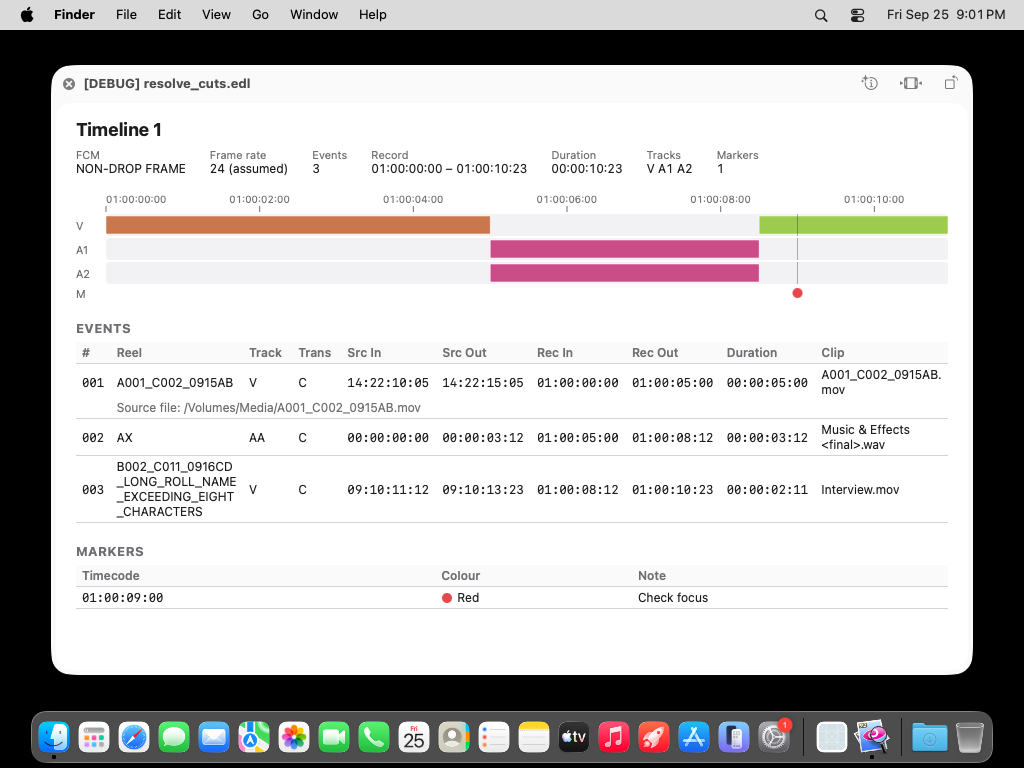
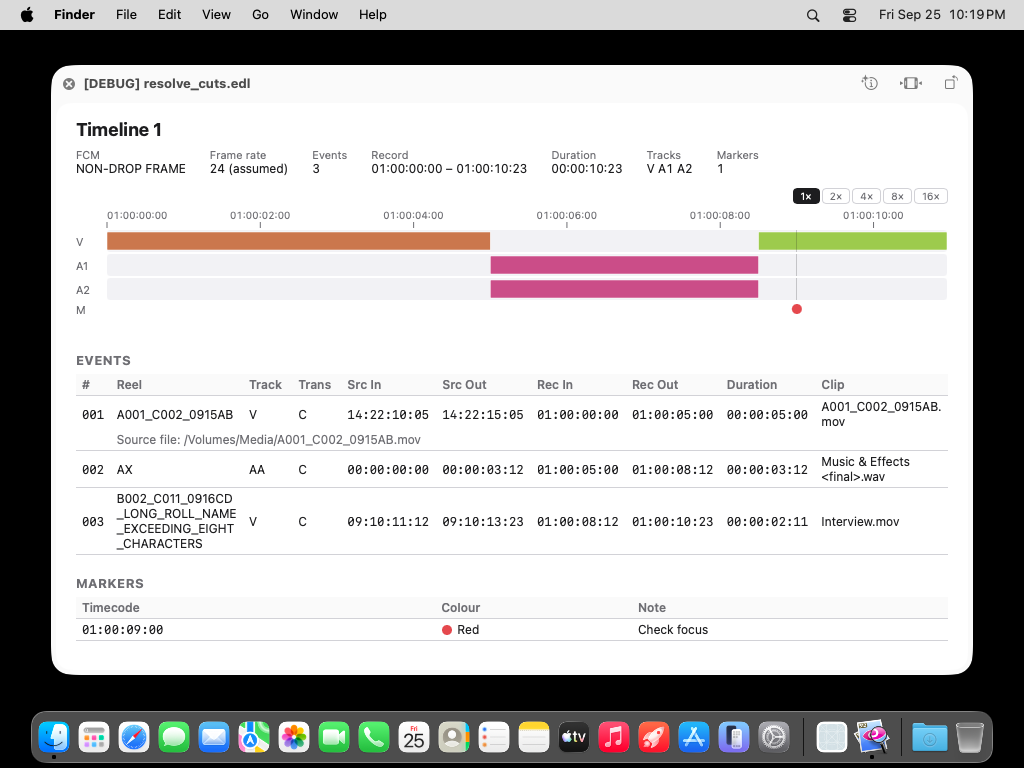
Zoomable, scrollable timeline (#1)
CSS-only zoom (1x-16x) with a horizontal scroll strip, fixed lane labels and a ruler per zoom level.

Claude-Session: https://claude.ai/code/session_01QsLhQhqB61bugcmFzULyaX

diff --git a/EDLKit/Sources/EDLKit/HTMLRenderer.swift b/EDLKit/Sources/EDLKit/HTMLRenderer.swift
@@ -4,13 +4,15 @@ public struct HTMLRenderer: Sendable {
     public var laneHeight = 22
     public var maxTicks = 6
 
+    public static let zoomLevels = [1, 2, 4, 8, 16]
+
     public init() {}
 
     public func render(_ document: EDLDocument, fileName: String? = nil) -> String {
         let title = document.title ?? fileName ?? "Untitled EDL"
         var html: [String] = []
         html.append("<!DOCTYPE html><html><head><meta charset=\"utf-8\"><title>\(escape(title))</title>")
-        html.append("<style>\(Self.stylesheet)</style></head><body>")
+        html.append("<style>\(Self.stylesheet)\n\(Self.zoomStylesheet)</style></head><body>")
         html.append("<header><h1>\(escape(title))</h1>\(summary(document))</header>")
         html.append(timeline(document))
         html.append(eventTable(document))
@@ -53,8 +55,10 @@ public struct HTMLRenderer: Sendable {
             .map { (document.recordPosition($0.timecode), $0) }
             .filter { extent.contains($0.0) || $0.0 == extent.upperBound }
 
-        var rows: [String] = []
-        rows.append("<div class=\"label\"></div><svg class=\"ruler\" height=\"20\">\(ruler(document, extent: extent, percent: percent))</svg>")
+        var labels = ["<div class=\"lbl-ruler\"></div>"]
+        var rows = Self.zoomLevels.map { zoom in
+            "<svg class=\"ruler z\(zoom)\" height=\"20\">\(ruler(document, extent: extent, maxTicks: maxTicks * zoom, percent: percent))</svg>"
+        }
 
         for lane in lanes {
             var shapes: [String] = []
@@ -83,7 +87,8 @@ public struct HTMLRenderer: Sendable {
             for (position, _) in markerPositions {
                 shapes.append("<line class=\"mline\" x1=\"\(percent(position))\" x2=\"\(percent(position))\" y1=\"0\" y2=\"\(laneHeight)\"/>")
             }
-            rows.append("<div class=\"label\">\(escape(lane.description))</div><svg class=\"lane\" height=\"\(laneHeight)\">\(shapes.joined())</svg>")
+            labels.append("<div class=\"lbl-lane\">\(escape(lane.description))</div>")
+            rows.append("<svg class=\"lane\" height=\"\(laneHeight)\">\(shapes.joined())</svg>")
         }
 
         if !markerPositions.isEmpty {
@@ -91,12 +96,20 @@ public struct HTMLRenderer: Sendable {
                 "<circle cx=\"\(percent(position))\" cy=\"7\" r=\"5\" fill=\"\(MarkerColor.css(marker.color))\">"
                     + "<title>\(escape("\(marker.timecode) \(marker.note)"))</title></circle>"
             }.joined()
-            rows.append("<div class=\"label\">M</div><svg class=\"markers\" height=\"14\">\(pins)</svg>")
+            labels.append("<div class=\"lbl-markers\">M</div>")
+            rows.append("<svg class=\"markers\" height=\"14\">\(pins)</svg>")
         }
-        return "<section class=\"timeline\">\(rows.joined())</section>"
+
+        let radios = Self.zoomLevels.map { zoom in
+            "<input type=\"radio\" name=\"zoom\" id=\"z\(zoom)\"\(zoom == 1 ? " checked" : "")>"
+        }.joined()
+        let buttons = Self.zoomLevels.map { "<label for=\"z\($0)\">\($0)×</label>" }.joined()
+        return "<section class=\"timeline\">\(radios)<div class=\"zoom\" title=\"Zoom\">\(buttons)</div>"
+            + "<div class=\"tl\"><div class=\"tl-labels\">\(labels.joined())</div>"
+            + "<div class=\"tl-scroll\"><div class=\"tl-inner\">\(rows.joined())</div></div></div></section>"
     }
 
-    func ruler(_ document: EDLDocument, extent: Range<Int>, percent: (Int) -> String) -> String {
+    func ruler(_ document: EDLDocument, extent: Range<Int>, maxTicks: Int, percent: (Int) -> String) -> String {
         let rate = document.frameRate.timebase
         let totalSeconds = Double(extent.count) / Double(rate)
         let steps = [1, 2, 5, 10, 15, 30, 60, 120, 300, 600, 900, 1800, 3600, 7200, 14400]
@@ -230,6 +243,14 @@ public struct HTMLRenderer: Sendable {
         return result
     }
 
+    static var zoomStylesheet: String {
+        zoomLevels.map { zoom in
+            "#z\(zoom):checked~.zoom label[for=z\(zoom)]{background:var(--fg);color:var(--bg);border-color:var(--fg)}"
+                + "#z\(zoom):checked~.tl .tl-inner{width:\(zoom * 100)%}"
+                + "#z\(zoom):checked~.tl .tl-inner svg.ruler.z\(zoom){display:block}"
+        }.joined(separator: "\n")
+    }
+
     static let stylesheet = """
     :root{color-scheme:light dark;--bg:#fff;--fg:#1d1d1f;--muted:#6e6e73;--line:#d2d2d7;--lane:#f2f2f5;--head:#fafafa}
     @media (prefers-color-scheme:dark){:root{--bg:#1e1e1e;--fg:#f5f5f7;--muted:#98989d;--line:#3a3a3c;--lane:#2a2a2c;--head:#252525}}
@@ -241,9 +262,18 @@ public struct HTMLRenderer: Sendable {
     .summary dt{color:var(--muted);font-size:11px}
     .summary dd{margin:0;font-variant-numeric:tabular-nums}
     .notes{color:var(--muted);margin:8px 0 0;padding-left:18px}
-    .timeline{display:grid;grid-template-columns:2.5em 1fr;row-gap:2px;margin-top:16px}
-    .timeline svg{width:100%;display:block;overflow:visible}
-    .label{color:var(--muted);font-size:11px;align-self:center}
+    .timeline{margin-top:12px;position:relative}
+    .timeline>input{position:absolute;opacity:0;pointer-events:none}
+    .zoom{display:flex;justify-content:flex-end;gap:2px;margin-bottom:4px}
+    .zoom label{font-size:10px;color:var(--muted);padding:1px 7px;border:1px solid var(--line);border-radius:4px;cursor:pointer;user-select:none}
+    .tl{display:flex}
+    .tl-labels{flex:0 0 2.5em}
+    .tl-labels div{color:var(--muted);font-size:11px;display:flex;align-items:center;margin-bottom:2px}
+    .lbl-ruler{height:20px}.lbl-lane{height:22px}.lbl-markers{height:14px}
+    .tl-scroll{flex:1 1 auto;min-width:0;overflow-x:auto;overflow-y:hidden;padding-bottom:14px}
+    .tl-inner{width:100%;padding:0 1px}
+    .tl-inner svg{width:100%;display:block;overflow:visible;margin-bottom:2px}
+    .tl-inner svg.ruler{display:none}
     .lane{background:var(--lane);border-radius:3px}
     .seg{stroke:var(--bg);stroke-width:.5}
     .trans{fill:#fff;opacity:.45}

diff --git a/EDLKit/Tests/EDLKitTests/RendererTests.swift b/EDLKit/Tests/EDLKitTests/RendererTests.swift
@@ -62,10 +62,33 @@ struct RendererTests {
         #expect(HTMLRenderer.em(7.91) == "8.0em")
     }
 
+    func ruler(_ html: String, zoom: Int) throws -> String {
+        try #require(html.components(separatedBy: "<svg class=\"ruler z\(zoom)\"").dropFirst().first?.components(separatedBy: "</svg>").first)
+    }
+
     @Test func rulerTicksStayReadable() throws {
         let html = HTMLRenderer().render(try fixture("six_digit_long_reels"))
-        let ruler = try #require(html.components(separatedBy: "<svg class=\"ruler\"").last?.components(separatedBy: "</svg>").first)
-        #expect(occurrences(of: "<text", in: ruler) <= 7)
+        #expect(occurrences(of: "<text", in: try ruler(html, zoom: 1)) <= 7)
+    }
+
+    @Test func timelineHasZoomLevelsWithDenserRulers() throws {
+        let html = HTMLRenderer().render(try fixture("six_digit_long_reels"))
+        #expect(occurrences(of: "<input type=\"radio\" name=\"zoom\"", in: html) == HTMLRenderer.zoomLevels.count)
+        #expect(html.contains("<input type=\"radio\" name=\"zoom\" id=\"z1\" checked>"))
+        #expect(occurrences(of: " checked>", in: html) == 1)
+        for zoom in HTMLRenderer.zoomLevels {
+            #expect(html.contains("<label for=\"z\(zoom)\">\(zoom)×</label>"))
+            #expect(html.contains("#z\(zoom):checked~.tl .tl-inner{width:\(zoom * 100)%}"))
+        }
+        let ticks = try HTMLRenderer.zoomLevels.map { occurrences(of: "<text", in: try ruler(html, zoom: $0)) }
+        #expect(ticks == ticks.sorted())
+        #expect(ticks.last! > ticks.first!)
+    }
+
+    @Test func laneLabelsLineUpWithLanes() throws {
+        let html = HTMLRenderer().render(try fixture("resolve_cuts"))
+        #expect(occurrences(of: "<div class=\"lbl-lane\">", in: html) == occurrences(of: "<svg class=\"lane\"", in: html))
+        #expect(occurrences(of: "<div class=\"lbl-markers\">", in: html) == occurrences(of: "<svg class=\"markers\"", in: html))
     }
 
     @Test func fallsBackToFileNameAndShowsUnparsed() {

diff --git a/SPEC.md b/SPEC.md
@@ -36,7 +36,7 @@ Frame rate is not stored in CMX3600. It is inferred: drop-frame → 29.97; other
 
 ## Preview content
 1. **Summary**: title, FCM, assumed frame rate, event count, record start/end, total duration, track list.
-2. **Timeline graphic**: SVG, one lane per track, clips placed by record in/out, dissolves shaded, marker pins, time ruler. Scales to window width; hover shows event details.
+2. **Timeline graphic**: SVG, one lane per track, clips placed by record in/out, dissolves shaded, marker pins, time ruler. Fits the window at 1×; zoom buttons (1×–16×, CSS only, no JavaScript) widen it into a horizontally scrolling strip with fixed lane labels and a ruler per zoom level. Hover shows event details.
 3. **Event table**: #, reel, track, transition, source in, source out, record in, record out, duration, speed, clip name. Clip comments shown beneath each row.
 4. **Markers** and **Unparsed lines** sections when present.
 

diff --git a/README.md b/README.md
@@ -1,6 +1,6 @@
 # EDL Quick Look
 
-Quick Look previews for CMX3600 Edit Decision List (`.edl`) files in macOS Finder: a summary, a timeline graphic and an event table, in light or dark mode.
+Quick Look previews for CMX3600 Edit Decision List (`.edl`) files in macOS Finder: a summary, a zoomable timeline and an event table, in light or dark mode.
 
 Understands CMX3600 plus the extras written by Avid, Premiere Pro, DaVinci Resolve and Final Cut: clip names, source files, dissolves, wipes, keys, speed changes (M2), markers (LOC) and roll names of any length. Anything it can't parse is listed at the end rather than dropped. See [SPEC.md](SPEC.md) for details.
 
